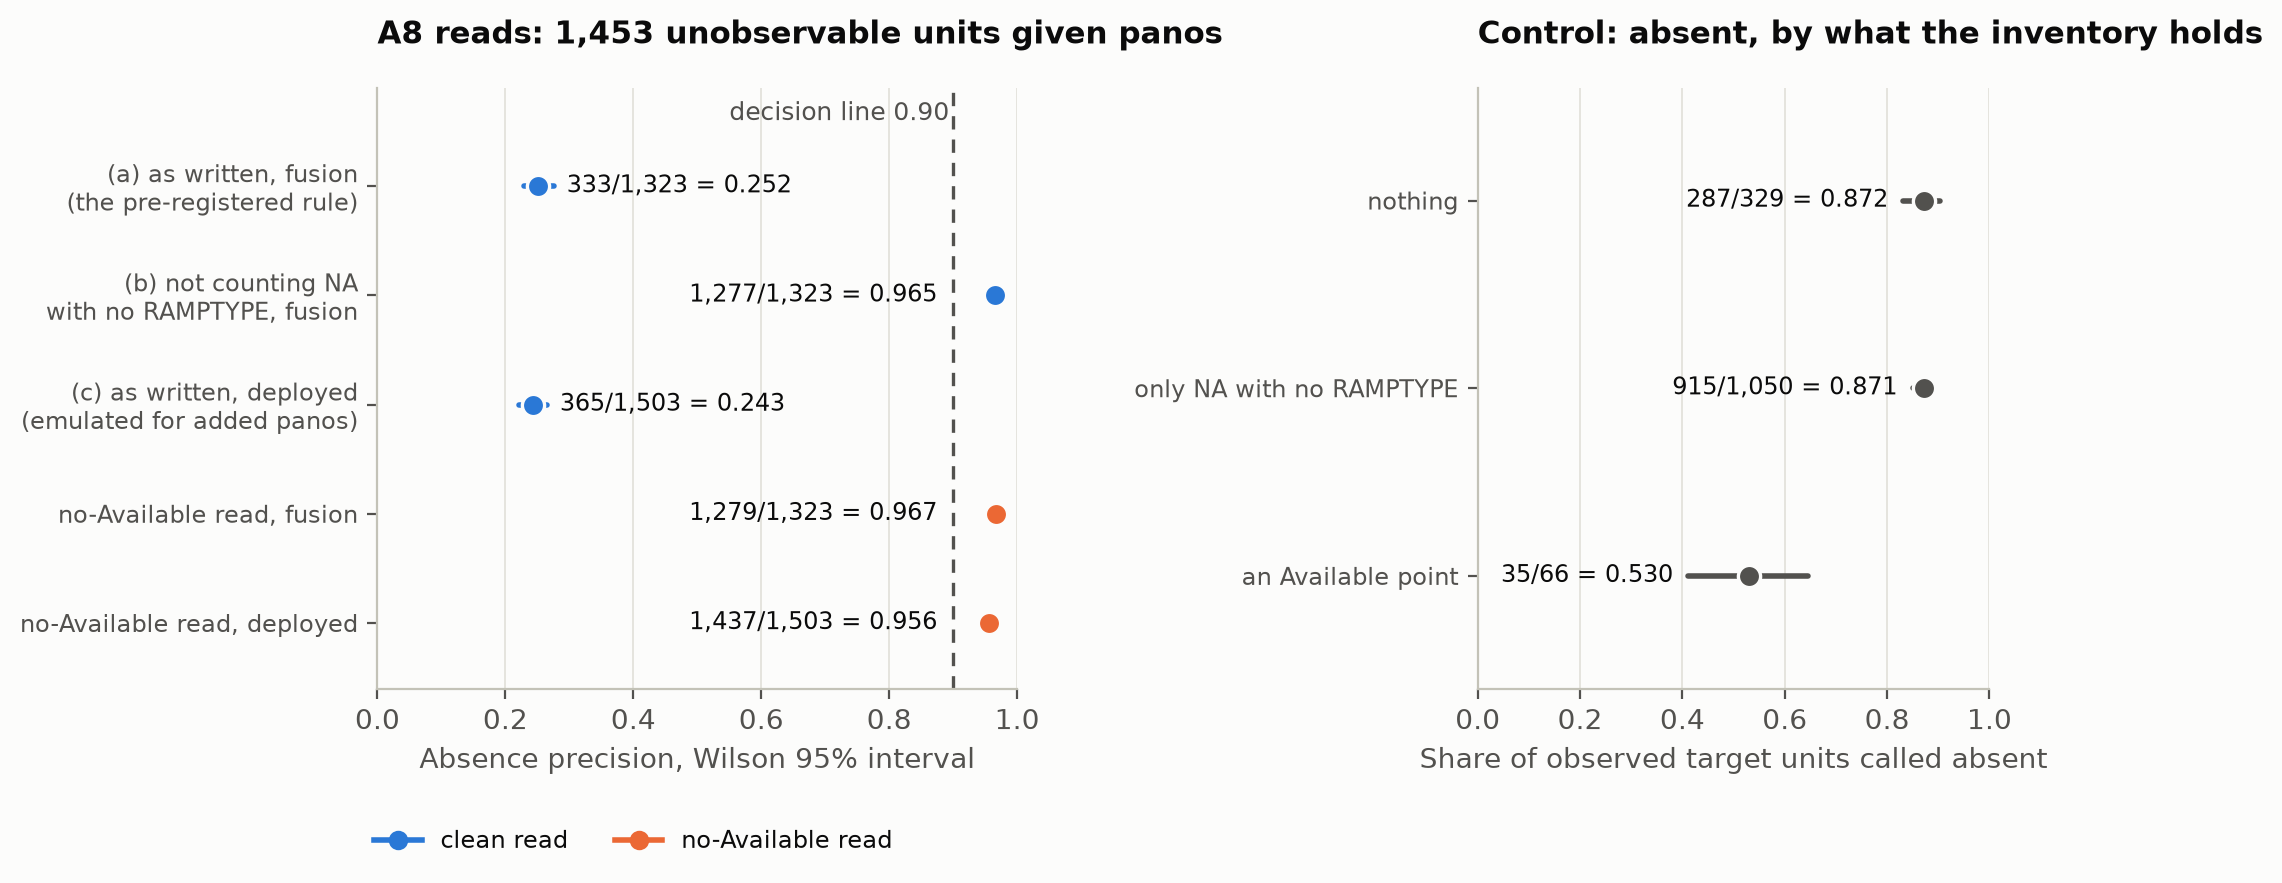
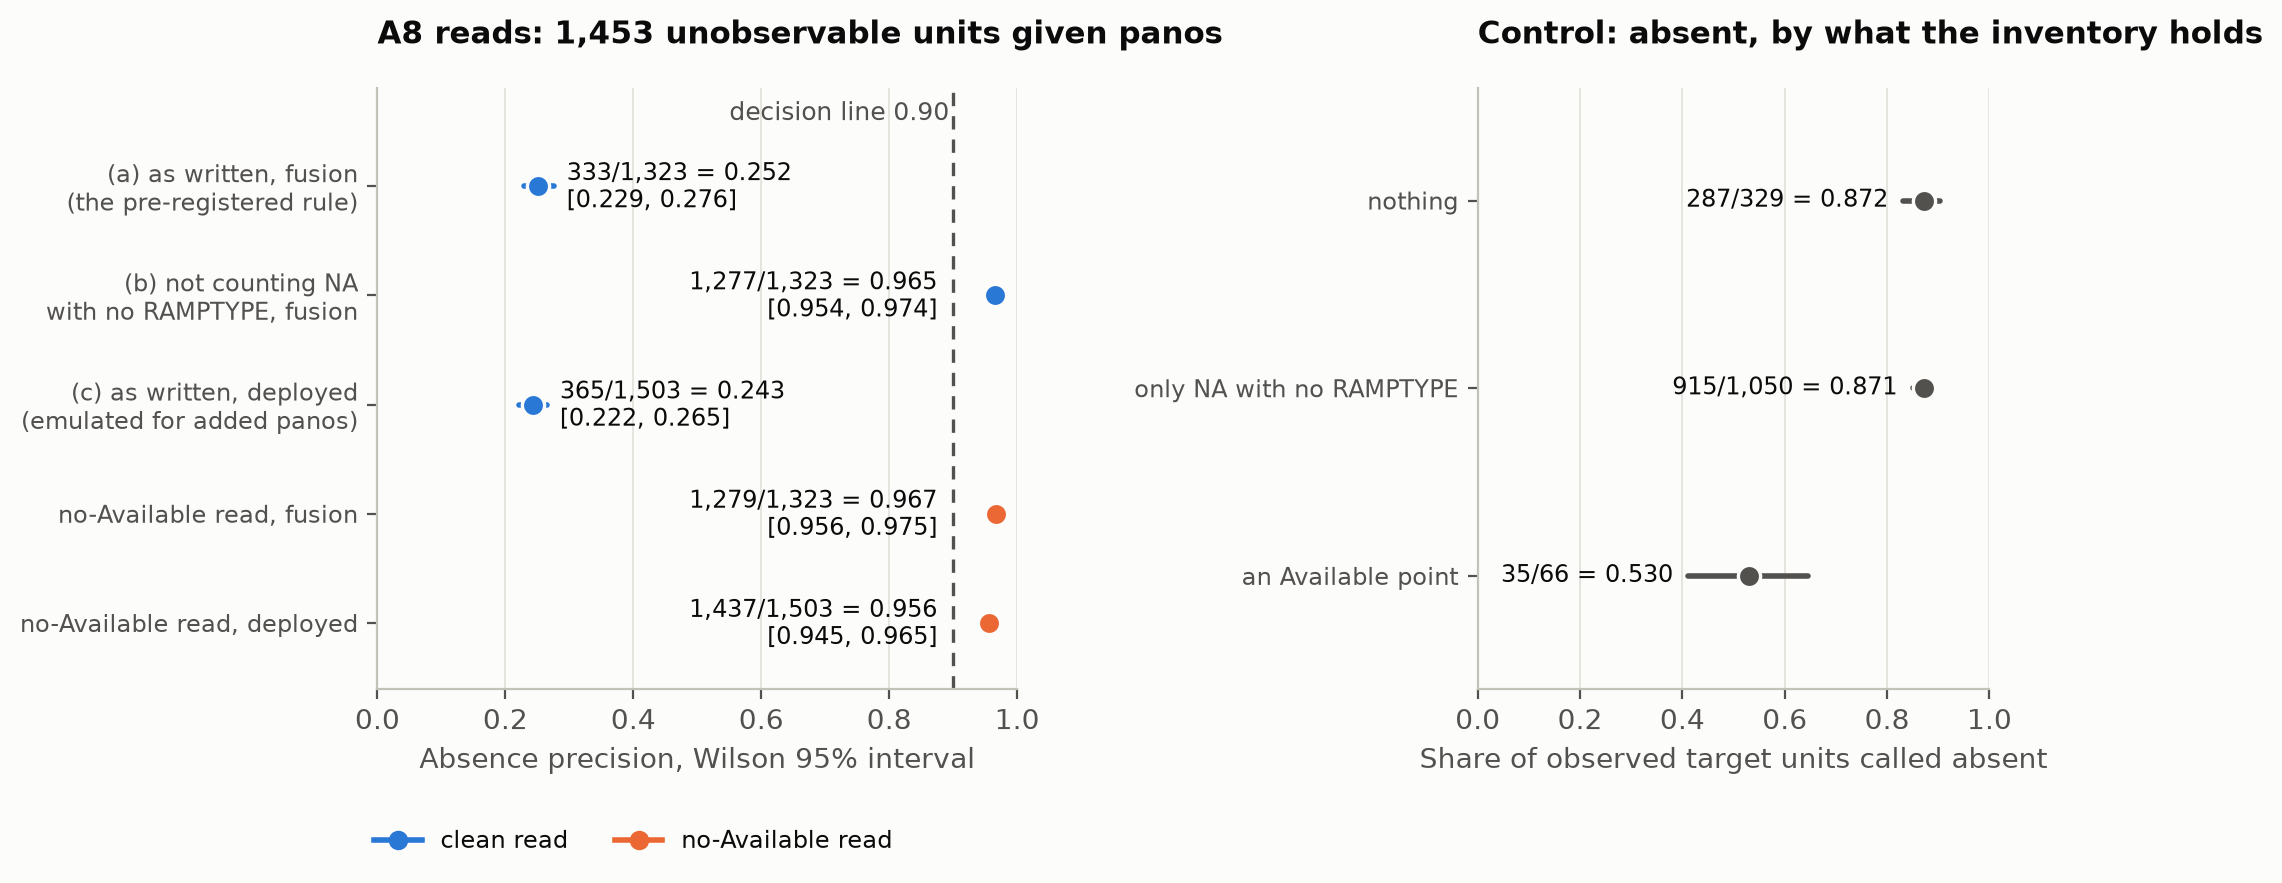
review nits (#135 final): Fig 3 prints [lo, hi], caption answers
The high reads' intervals (~0.02 wide) hid under their markers; each left-panel label now carries its Wilson bounds on a second line, as Fig 2 does. The caption opens with the question and its answer. Figures regenerated; run-twice byte-identical; data CSVs, fig1 and fig2 unchanged.

diff --git a/scripts/corner_inventory.py b/scripts/corner_inventory.py
@@ -1710,8 +1710,12 @@ def fig_a8(plt, reads, control, fig_dir):
                 markeredgewidth=1.2)
         tx, ha = ((r['hi'] + 0.02, 'left') if r['share'] < 0.6 else
                   (min(r['lo'], DECISION_THRESHOLD) - 0.025, 'right'))
-        ax.text(tx, y, f"{r['k']:,}/{r['n']:,} = {r['k'] / r['n']:.3f}", va='center', ha=ha,
-                fontsize=8.5, color=INK)
+        # The bounds are printed, as in figure 2: the high reads' intervals (~0.02 wide)
+        # hide under their markers, and whether (b)'s lower bound clears 0.90 is the point.
+        # On a second line, so a low read's label stays clear of the 0.90 line.
+        ax.text(tx, y, f"{r['k']:,}/{r['n']:,} = {r['k'] / r['n']:.3f}\n"
+                f"[{r['lo']:.3f}, {r['hi']:.3f}]", va='center', ha=ha, multialignment=ha,
+                fontsize=8.5, color=INK, linespacing=1.15)
     ax.axvline(DECISION_THRESHOLD, color=INK2, lw=1.2, ls=(0, (4, 3)))
     ax.text(DECISION_THRESHOLD - 0.006, ys[0] + 0.55,
             f'decision line {DECISION_THRESHOLD:.2f}', ha='right', va='bottom', fontsize=9,

diff --git a/docs/corner-inventory.md b/docs/corner-inventory.md
@@ -861,8 +861,13 @@ What the inventory holds at the 1,239 units moved to absent:
 
 ![Figure 3. Two panels. Left: dot-and-interval plot of five A8 reads against a dashed decision line at 0.90. Read (a), as written, fusion, the pre-registered rule: 333 of 1,323, 0.252, far below the line. Read (b), not counting NA with no RAMPTYPE: 1,277 of 1,323, 0.965, above the line. Read (c), as written, deployed: 365 of 1,503, 0.243. No-Available read, fusion: 1,279 of 1,323, 0.967. No-Available read, deployed: 1,437 of 1,503, 0.956. Right, the control: share of observed target units called absent, by what the inventory holds. Nothing: 287 of 329, 0.872. Only NA with no RAMPTYPE: 915 of 1,050, 0.871. An Available point: 35 of 66, 0.530.](figures/corner-inventory/fig3_a8_reads.png)
 
-*Figure 3. Amendment A8, unit level, intersections pooled, merged build, Wilson 95%
-intervals; the 0.90 line applies to read (a) only. Data:
+*Figure 3. Once the unobservable units are given panos, does the absence read reach 0.90? As
+written, no: read (a) is 0.252 at large n. Not counting `NA` with no `RAMPTYPE`, it would:
+read (b) is 0.965 with its lower bound (0.954) above the line. The control shows why: units holding
+only such `NA` points are called absent as often as empty units (0.871 vs 0.872), against
+0.530 where an `Available` point stands. Amendment A8, unit level, intersections pooled,
+merged build, Wilson 95% intervals (printed under each read); the 0.90 line applies to read
+(a) only. Data:
 `docs/figures/corner-inventory/data/fig3_a8_reads.csv` (from `compare/reads.csv`, read (a)
 cross-checked against `compare.json` `decision_rule`) and `fig3_a8_control.csv` (from
 `compare.json` `target_states_by_inventory`). [SVG](figures/corner-inventory/fig3_a8_reads.svg).*
